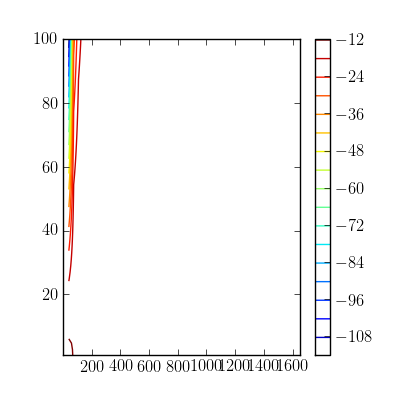
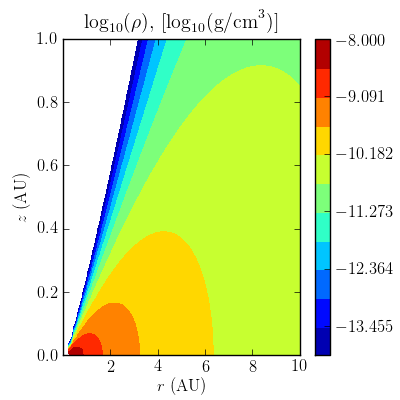
Density plot working

diff --git a/disk.py b/disk.py
@@ -20,6 +20,7 @@ class Disk:
         return self.T_r0 * (r/self.r0)**(-1.*self.q)
 
     def h(self,r):
+        '''Returns in [cm]'''
         return np.sqrt(2. * r**3 * const.k * self.T(r) / (const.G * self.M_star * self.m0))
 
     def Sigma(self,r):
@@ -29,6 +30,7 @@ class Disk:
         return self.Sigma(r)/(np.sqrt(2 * np.pi) * self.h(r))
 
     def rho(self,r,z):
+        '''Returns in [g/cm^3]'''
         return self.rho0(r) * np.exp(-1. * z**2. / (2. * self.h(r)**2.))
 
     def plot_T(self):
@@ -52,13 +54,17 @@ class Disk:
     def plot_rho(self):
         fig = plt.figure()
         ax = fig.add_subplot(111)
-        r = np.linspace(const.AU, 3 * self.r0)
+        r = np.linspace(0.1, 10*const.AU)#self.r0)
         #r = np.logspace(np.log10(const.AU),np.log10(3 * self.r0))
         #z = np.arange(-0.4, 1.1, 0.01)
-        z = np.linspace(const.AU, 100.*const.AU)
+        z = np.linspace(0.0, const.AU)
         r_grid, z_grid = np.meshgrid(r, z)
         rho_grid = np.log10(self.rho(r_grid, z_grid))
-        CS = ax.contour(r_grid/const.AU, z_grid/const.AU, rho_grid,20)
+        levels = np.linspace(-14,-8,num=12)
+        CS = ax.contourf(r_grid/const.AU, z_grid/const.AU, rho_grid,levels=levels)
+        ax.set_xlabel(r"$r$ (AU)")
+        ax.set_ylabel(r"$z$ (AU)")
+        ax.set_title(r"$\log_{10}(\rho)$, [$\log_{10}({\rm g/cm}^3)$]" )
         cbar = plt.colorbar(CS)
         #ax.set_xlabel("r [AU]")
         #ax.set_ylabel("T [K]")

diff --git a/model.py b/model.py
@@ -15,4 +15,12 @@ q = 0.5
 beta = 1.0
 #M_star,r0,T_r0,q,Sigma0,p,m0,X0):
 disk1 = disk.Disk(M_star,r0, T_r0, q, Sigma0, p, m0, 1.0)
-disk1.plot_rho()
+
+
+
+def main():
+    disk1.plot_rho()
+    pass
+
+if __name__=="__main__":
+    main()
